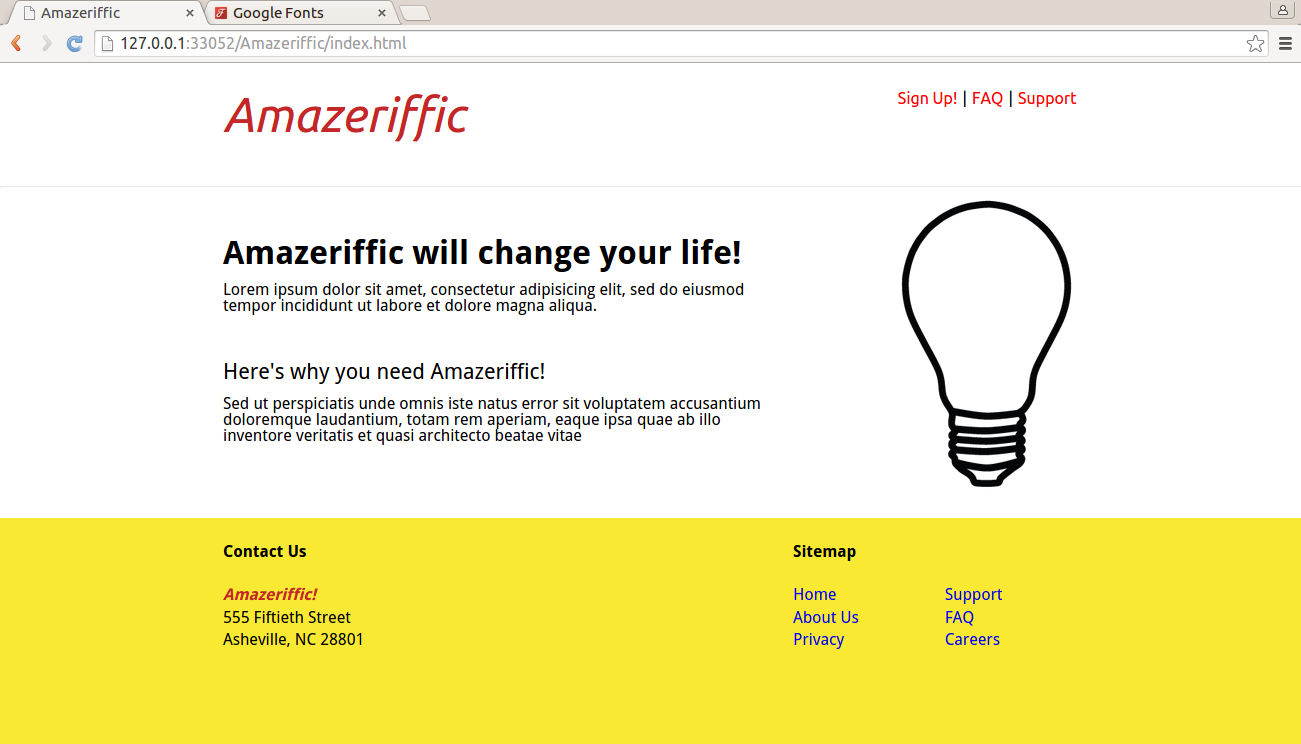
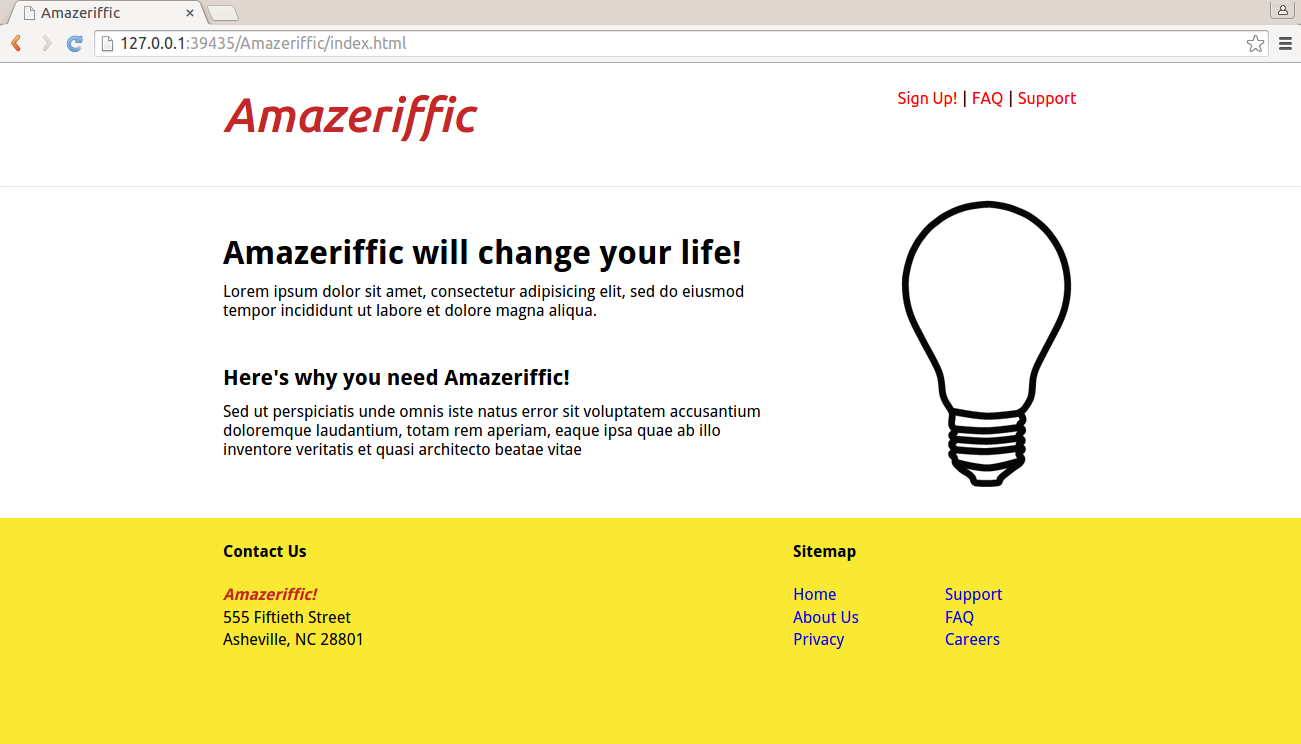
done minor changes in style.css

diff --git a/Chapter3/Amazeriffic/style.css b/Chapter3/Amazeriffic/style.css
@@ -22,7 +22,7 @@ header {
 header div.container h1{
    
    
-    font-weight: 400;
+    font-weight: 500;
     font-size: 3.0em;
     font-style: italic;
     color: rgb(195, 39, 39);
@@ -80,12 +80,14 @@ main .left h2{
 
 main .left p {
     padding: 10pt 0pt 10pt 0pt;
+    line-height: 1.2em;
+    
 }
 
 main .left h3{
     margin-top: 25pt;
     font-size: 1.35em;
-    font-weight: 500;
+    font-weight: 600;
 }
 
 main .right {

diff --git a/Chapter3/Amazeriffic/index.html b/Chapter3/Amazeriffic/index.html
@@ -11,7 +11,7 @@
   <body>
     <header>
       <div class="container">
-        <h1>Amazeriffic</h1>
+        <h1>Amazeriffic!</h1>
         <nav>
           <a href="#">Sign Up!</a> |
           <a href="#">FAQ</a> |
